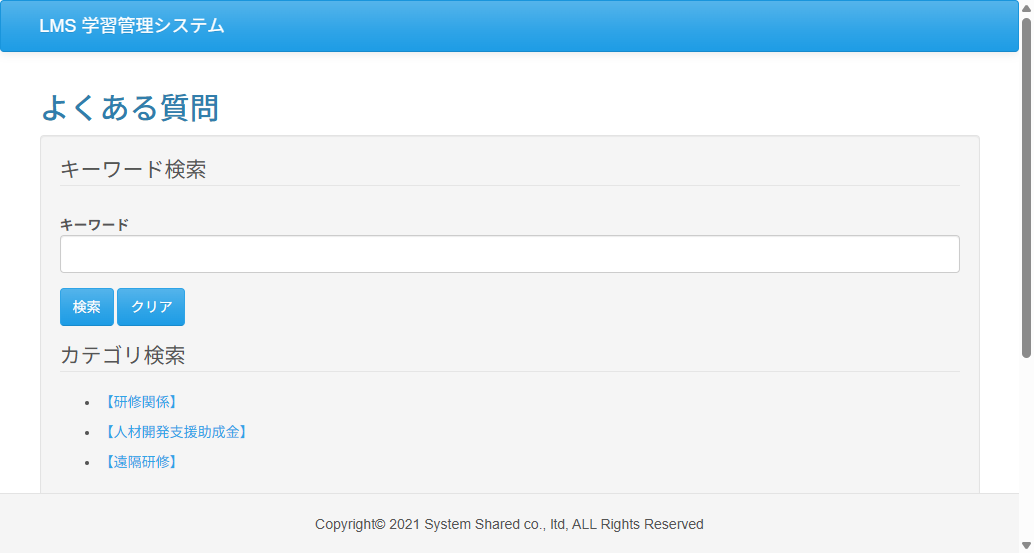
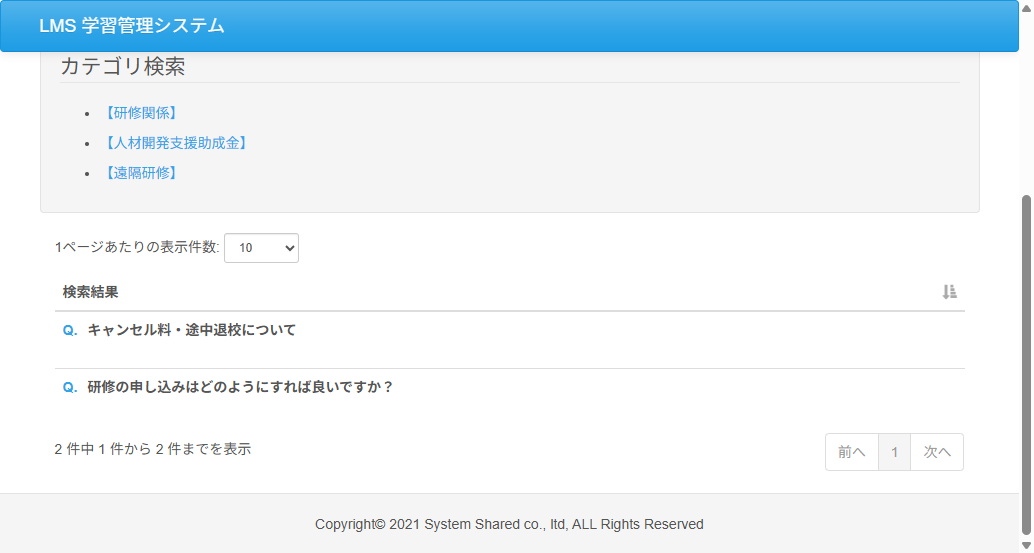
fix:Case06の修正

diff --git a/test_code_creation_name/src/test/java/jp/co/sss/lms/ct/f02_faq/Case06.java b/test_code_creation_name/src/test/java/jp/co/sss/lms/ct/f02_faq/Case06.java
@@ -134,6 +134,8 @@ public class Case06 {
 		WebElement result = webDriver.findElement(By.className("mb10"));
 		assertEquals("Q.キャンセル料・途中退校について", result.getText());
 
+		scrollBy("window.innerHeight");
+
 		getEvidence(new Object() {
 		});
 
